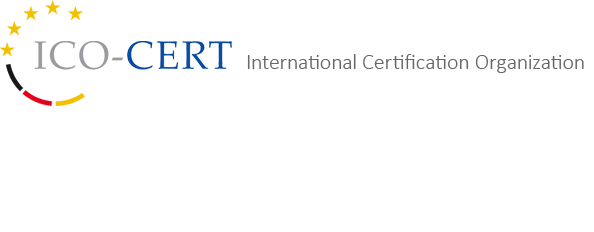
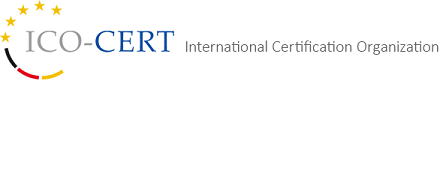
Bilder vergößert

diff --git a/index.html b/index.html
@@ -46,7 +46,7 @@
               <!-- Logo -->
               <a href="#!" class="js-go-to navbar-brand u-header__logo"
                  data-type="static">
-                <img class="u-header__logo-img u-header__logo-img--main" src=".\assets\img\BPMspace_Logo.png" alt="Image Description">
+                <img class="img-fluid u-header__logo-img u-header__logo-img--main" src=".\assets\img\BPMspace_Logo.png" alt="Image Description">
               </a>
               <!-- End Logo -->
 
@@ -237,7 +237,7 @@
                data-infinite="true"
                data-autoplay="true"
                data-speed="5000"
-               data-rows="2"
+               data-rows="1"
                data-slides-show="4"
                data-responsive='[{
                  "breakpoint": 1200,
@@ -506,7 +506,7 @@
           <div class="js-carousel g-mb-60"
                data-autoplay="true"
                data-infinite="true"
-               data-slides-show="6"
+               data-slides-show="2"
                data-responsive='[{
                  "breakpoint": 1200,
                  "settings": {
